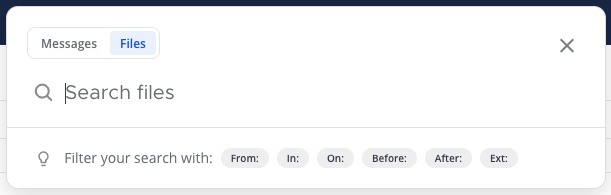
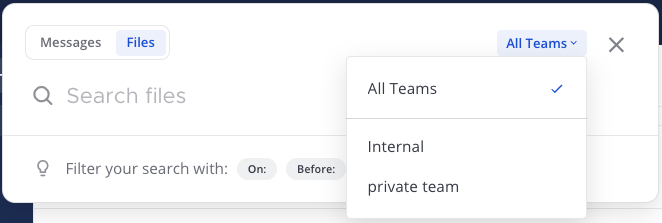
Cross-team search for web, desktop, mobile

diff --git a/source/collaborate/search-for-messages.rst b/source/collaborate/search-for-messages.rst
@@ -4,19 +4,19 @@ Search for messages
 .. include:: ../_static/badges/allplans-cloud-selfhosted.rst
   :start-after: :nosearch:
 
-Use Mattermost search to find messages, replies, and the contents of files shared across all channels you're a member of in your team's conversation history. You can also search by `hashtags <#hashtags>`__ or perform more advanced searches using `search modifiers <#search-modifiers>`__.
+Use Mattermost search to find messages, replies, and the contents of files. You can also search by `hashtags <#hashtags>`__ or perform more advanced searches using `search modifiers <#search-modifiers>`__.
 
 .. include:: ../_static/badges/academy-search.rst
   :start-after: :nosearch:
 
-Search for message and files 
------------------------------
+Search for message
+-------------------
 
 .. tab:: Web/Desktop
 
   **Search for messages**
 
-  1. Select the Search field, select **Messages**, then enter your search criteria. 
+  1. Select the Search field, select **Messages**, enter your search criteria including applicable `hashtags <#hashtags>`__.
 
     .. image:: ../images/search-messages.png
       :alt: Use the Search field to search for messages.
@@ -24,78 +24,100 @@ Search for message and files
     .. image:: ../images/search-messages-expanded.png
       :alt: Use the expanded Search field to search for messages.
 
-  2. When message results display in the Search Results pane, select **Jump** to view a full message in context.
+  2. By default, your search results include messages from all channels within your current team. From Mattermost v10.8, you can select **All Teams** to search all channels across all teams, select a specific team instead, or continue searching within the current team.
+
+    .. image:: ../images/search-all-teams.png
+      :alt: Select All Teams to search all channels across all teams.
+
+  3. When message results display in the Search Results pane, select **Jump** to view a full message in context. 
 
     .. image:: ../images/jump-to-message.png
       :alt: From search results, you can go to the full message by selecting Jump.
 
-  **Search for files**
-
-  File content search is available in Mattermost Server and in Mattermost Cloud. Select the **Search** field, select **Files**, then type your search criteria. 
-
-    .. image:: ../images/search-files.png
-      :alt: Use the Search field to serach for files attached to messages.
-
-  File contents that match on file name, or contain matching text content within supported document types, are returned in the Search Results pane. Each search result includes file name, extension, and size details, as well as details about when and where the file was originally shared.
-
-  - For Mattermost Cloud :doc:`workspaces </guides/use-mattermost>`, supported document file formats include PDF, PPTX, DOCX, ODT, HTML, and plain text documents. DOC and RTF file formats, as well as the contents of ZIP files, are not supported.
-  - For Mattermost self-hosted deployments, supported document file formats include PDF, PPTX, DOCX, ODT, HTML, and plain text documents. 
-
-  .. note::
-    
-    System admins can extend file content search support for self-hosted deployments to include:
-
-    - :ref:`files shared before upgrading to Mattermost Server v5.35 <manage/mmctl-command-line-tool:mmctl extract>`.
-    - :ref:`DOC and RTF file formats <configure/environment-configuration-settings:enable document search by content>`.
-    - :ref:`documents within ZIP files <configure/environment-configuration-settings:enable searching content of documents within zip files>`.
-
-  **Filter results by file type**
-  
-  To narrow search results further, in the Search Results pane, select the **File Type Filter** option, then select specific file types, such as documents, spreadsheets, or images.
-
-  .. image:: ../images/file-search-filter.png
-    :alt: You can filter search results by file type.
-
   .. tip::
-    Select the **Channel Files** icon to the right of the channel name to access files recently shared in the current channel. 
 
-    .. image:: ../images/channel-files-icon.png
-      :alt: Use the Channel Files option to access recently shared files in the current channel.
+    From Mattermost v10.8, you can adjust the search results to show messages from the current team, a specific team, or all teams.
 
 .. tab:: Mobile
 
   1. Tap the **Search** |search-icon| icon at the bottom of the app to search for messages or files attached to messages.
 
-  .. image:: ../images/mobile-search-for-messages.jpg
-      :alt: Tap on the Search icon to search for messages or files attached to messages.
-      :scale: 30
+    .. image:: ../images/mobile-search-for-messages.jpg
+        :alt: Tap on the Search icon to search for messages.
+        :scale: 30
 
-  2. To the right of search options, tap to select which team to search.
+  2. By default, your search results include messages from all channels within your current team. From mobile v2.28, tap **All Teams** to search all channels across all teams, or select a specific team instead.
 
-  .. image:: ../images/mobile-search-message-team-selection.jpg
-      :alt: Tap on the Team selector to select the team you want to search in.
-      :scale: 30
+    .. image:: ../images/mobile-search-message-team-selection.jpg
+        :alt: Tap on the Team selector to select the team you want to search in.
+        :scale: 30
 
   3. Enter your search criteria, including applicable `hashtags <#hashtags>`__.
 
-  .. image:: ../images/mobile-search-message-criteria-with-hashtags.jpg
-      :alt: Type your search criteria along with applicable hashtags.
-      :scale: 30
+    .. image:: ../images/mobile-search-message-criteria-with-hashtags.jpg
+        :alt: Type your search criteria along with applicable hashtags.
+        :scale: 30
 
   4. Tap to apply `search modifiers <#search-modifiers>`__ to your search.
 
-  .. image:: ../images/mobile-search-message-with-modifiers.jpg
-      :alt: Apply search modifiers to further refine your search.
-      :scale: 30
+    .. image:: ../images/mobile-search-message-with-modifiers.jpg
+        :alt: Apply search modifiers to further refine your search.
+        :scale: 30
   
-  .. image:: ../images/mobile-search-message-results.jpg
-      :alt: Check the search results to find your required message or file from the list.
-      :scale: 30
+    .. image:: ../images/mobile-search-message-results.jpg
+        :alt: Check the search results to find your required message or file from the list.
+        :scale: 30
 
-To access files recently shared in a channel:
+  .. tip::
 
-- Select the |channel-files-icon| icon to the right of the channel name to access files recently shared in that channel. 
-- Select the channel name, select the **View Info** |channel-info| icon, then select **Files** in the right pane.
+    You can adjust search results to show messages from the current team, a specific team, or all teams.
+
+Search for files
+----------------
+
+From the **Search** field, select **Files** to search for files attached to messages. From Mattermost v10.8 and mobile v2.28, you can specify whether you want to search all channels you're a member of in the current team, a specific team, or all channels across all teams. 
+
+.. image:: ../images/search-files.png
+  :alt: Use the Search field to serach for files attached to messages.
+
+File contents that match on file name, or contain matching text content within supported document types, are returned in the Search Results pane. Each search result includes file name, extension, and size details, as well as details about when and where the file was originally shared. You can adjust search results to show messages from the current team, a specific team, or all teams.
+
+- For Mattermost Cloud :doc:`workspaces </guides/use-mattermost>`, supported document file formats include PDF, PPTX, DOCX, ODT, HTML, and plain text documents. DOC and RTF file formats, as well as the contents of ZIP files, are not supported.
+- For Mattermost self-hosted deployments, supported document file formats include PDF, PPTX, DOCX, ODT, HTML, and plain text documents. 
+
+.. note::
+
+  System admins can extend file content search support for self-hosted deployments to include:
+
+  - :ref:`files shared before upgrading to Mattermost Server v5.35 <manage/mmctl-command-line-tool:mmctl extract>`.
+  - :ref:`DOC and RTF file formats <configure/environment-configuration-settings:enable document search by content>`.
+  - :ref:`documents within ZIP files <configure/environment-configuration-settings:enable searching content of documents within zip files>`.
+
+Filter results by file type
+~~~~~~~~~~~~~~~~~~~~~~~~~~~~
+
+Using Mattermost in a web browser or the desktop app, you can narrow search results further by selecting the **File Type Filter** option, then selecting specific file types, such as documents, spreadsheets, or images.
+
+.. image:: ../images/file-search-filter.png
+  :alt: You can filter search results by file type.
+
+Access recently shared files
+~~~~~~~~~~~~~~~~~~~~~~~~~~~~~
+
+You can access files recently shared in a channel:
+
+.. tab:: Web/Desktop
+
+  Select the |channel-files-icon| icon to the right of the channel name to access files recently shared in that channel. 
+
+  .. image:: ../images/channel-files-icon.png
+    :alt: Use the Channel Files option to access recently shared files in the current channel.
+
+  Alternatively, you can select the channel name, select the **View Info** |channel-info| icon, then select **Files** in the right pane.
+
+.. tab:: Mobile
+
+  Tap the channel name to view channel options, then tap **Files**.
 
 Search modifiers
 ----------------
@@ -154,7 +176,7 @@ Wildcards
 Use the asterisk ``*`` symbol at the end of the word to perform a wildcard search. The wildcard search returns all words that begin with the specified letters. The wildcard in search cannot be used at the beginning or in the middle of a word. For example, searching ``rea*`` returns messages or files containing words like ``reach``, ``reason``, ``reality``, ``real``, and other words starting with ``rea``. However, searches like ``*each`` and ``re*ch`` are invalid wildcard searches.
 
 Hashtags
---------
+~~~~~~~~~
 
 Hashtags are searchable labels for messages. Anyone can create a hashtag in a message by using the pound sign ``#`` followed by alphanumeric or other unicode characters. Hashtag examples include: ``#bug``, ``#marketing``, ``#user_testing``, ``#per.iod``, ``#check-in``, ``#마케팅``.
 

diff --git a/source/manage/telemetry.rst b/source/manage/telemetry.rst
@@ -97,7 +97,7 @@ Server Configuration Settings
 
   **True/false (boolean)** value whether setting remains default (true) or non-default (false). **NOTE: No input data is used**:
 
-   **ServiceSettings**: bool SiteURL, bool WebsocketURL, bool TLSCertFile, bool TLSKeyFile, bool ReadTimeout, bool WriteTimeout,bool IdleTimeout, bool GoogleDeveloperKey, bool AllowCorsFrom, bool CorsExposedHeaders, bool AllowedUntrustedInternalConnections, bool ManagedResourcePaths, bool CollapsedThreads, bool PostPriority, bool AllowPersistentNotifications, bool PersistentNotificationMaxCount, bool PersistentNotificationIntervalMinutes, bool PersistentNotificationMaxRecipients; **TeamSettings**: bool SiteName, bool CustomBrandText, bool CustomDescriptionText, bool UserStatusAwayTimeout, bool ExperimentalPrimaryTeam; **DisplaySettings**: bool CustomUrlSchemes, bool MaxMarkdownNodes; **GuestAccountSettings**: bool RestrictCreationToDomains, bool EnforceMultifactorAuthentication, bool HideTags; **LogSettings**: bool FileLocation; **NotificationLogSettings**: bool FileLocation; **EmailSettings**: bool FeedbackName, bool FeedbackEmail, bool FeedbackOrganization, bool LoginButtonColor, bool LoginButtonBorderColor, bool LoginButtonTextColor, bool ImageProxyType, bool ImageProxyURL, bool ImageProxyOptions; **RateLimitSettings**: bool VaryByHeader; **SupportSettings**: bool TermsOfServiceLink, bool PrivacyPolicyLink, bool AboutLink, bool HelpLink, bool ReportAProblemLink, bool AppCustomURLSchemes, bool MobileExternalBrowser bool SupportEmail; **ThemeSettings**: bool DefaultTheme; **LdapSettings**: bool FirstNameAttribute, bool LastNameAttribute, bool EmailAttribute, bool UserNameAttribute, bool NicknameAttribute, bool IdAttribute, bool PositionAttribute, bool LoginFieldName, bool LoginButtonColor, bool LoginButtonBorderColor, bool LoginButtonTextColor, bool GroupFilter, bool GroupDisplayNameAttribute, bool GroupIdAttribute, bool GuestFilter, bool AdminFilter; **SamlSettings**: bool SignatureAlgorithm, bool CanonicalAlgorithm, bool ScopingIDPProviderId, bool ScopingIDPName, bool IdAttribute, bool GuestAttribute, bool FirstNameAttribute, bool LastNameAttribute, bool EmailAttribute, bool UserNameAttribute, bool NicknameAttribute, bool LocaleAttribute, bool PositionAttribute, bool LoginIdAttribute, bool LoginButtonText, bool LoginButtonColor, bool LoginButtonBorderColor, bool LoginButtonTextColor, bool AdminFilter; **NativeAppSettings**: bool AppDownloadLink, bool  AndroidAppDownloadLink, bool IosAppDownloadLink; **WebrtcSettings** (only in v5.5 and earlier): bool StunURI, bool TurnURI; **ClusterSettings**: bool NetworkInterface, bool BindAddress, bool AdvertiseAddress; **MetricsSettings**: bool BlockProfileRate; **AnalyticsSettings**: bool MaxUsersForStatistics; **ExperimentalSettings** bool ClientSideCertCheck; **AnnouncementSettings**: bool BannerColor, bool BannerTextColor; **ElasticsearchSettings**: bool ConnectionUrl, bool Username, bool Password, bool IndexPrefix; **PluginSettings**: bool MarketplaceUrl, bool SignaturePublicKeyFiles, bool ChimeraOAuthProxyUrl; **MessageExportSettings**: bool GlobalRelaySettings.SmtpUsername, bool GlobalRelaySettings.SmtpPassword, bool GlobalRelaySettings.EmailAddress; **ConnectedWorkspacesSettings**: bool EnableSharedChannels, bool EnableRemoteClusterService, bool DisableSharedChannelsStatusSync, bool DefaultMaxPostsPerSync.
+   **ServiceSettings**: bool SiteURL, bool WebsocketURL, bool TLSCertFile, bool TLSKeyFile, bool ReadTimeout, bool WriteTimeout,bool IdleTimeout, bool GoogleDeveloperKey, bool AllowCorsFrom, bool CorsExposedHeaders, bool AllowedUntrustedInternalConnections, bool ManagedResourcePaths, bool CollapsedThreads, bool PostPriority, bool AllowPersistentNotifications, bool PersistentNotificationMaxCount, bool PersistentNotificationIntervalMinutes, bool PersistentNotificationMaxRecipients; **TeamSettings**: bool SiteName, bool CustomBrandText, bool CustomDescriptionText, bool UserStatusAwayTimeout, bool ExperimentalPrimaryTeam; **DisplaySettings**: bool CustomUrlSchemes, bool MaxMarkdownNodes; **GuestAccountSettings**: bool RestrictCreationToDomains, bool EnforceMultifactorAuthentication, bool HideTags; **LogSettings**: bool FileLocation; **NotificationLogSettings**: bool FileLocation; **EmailSettings**: bool FeedbackName, bool FeedbackEmail, bool FeedbackOrganization, bool LoginButtonColor, bool LoginButtonBorderColor, bool LoginButtonTextColor, bool ImageProxyType, bool ImageProxyURL, bool ImageProxyOptions; **RateLimitSettings**: bool VaryByHeader; **SupportSettings**: bool TermsOfServiceLink, bool PrivacyPolicyLink, bool AboutLink, bool HelpLink, bool ReportAProblemLink, bool AppCustomURLSchemes, bool MobileExternalBrowser bool SupportEmail; **ThemeSettings**: bool DefaultTheme; **LdapSettings**: bool FirstNameAttribute, bool LastNameAttribute, bool EmailAttribute, bool UserNameAttribute, bool NicknameAttribute, bool IdAttribute, bool PositionAttribute, bool LoginFieldName, bool LoginButtonColor, bool LoginButtonBorderColor, bool LoginButtonTextColor, bool GroupFilter, bool GroupDisplayNameAttribute, bool GroupIdAttribute, bool GuestFilter, bool AdminFilter; **SamlSettings**: bool SignatureAlgorithm, bool CanonicalAlgorithm, bool ScopingIDPProviderId, bool ScopingIDPName, bool IdAttribute, bool GuestAttribute, bool FirstNameAttribute, bool LastNameAttribute, bool EmailAttribute, bool UserNameAttribute, bool NicknameAttribute, bool LocaleAttribute, bool PositionAttribute, bool LoginIdAttribute, bool LoginButtonText, bool LoginButtonColor, bool LoginButtonBorderColor, bool LoginButtonTextColor, bool AdminFilter; **NativeAppSettings**: bool AppDownloadLink, bool  AndroidAppDownloadLink, bool IosAppDownloadLink; **WebrtcSettings** (only in v5.5 and earlier): bool StunURI, bool TurnURI; **ClusterSettings**: bool NetworkInterface, bool BindAddress, bool AdvertiseAddress; **MetricsSettings**: bool BlockProfileRate; **AnalyticsSettings**: bool MaxUsersForStatistics; **ExperimentalSettings** bool ClientSideCertCheck; **AnnouncementSettings**: bool BannerColor, bool BannerTextColor; **ElasticsearchSettings**: bool ConnectionUrl, bool Username, bool Password, bool IndexPrefix; **PluginSettings**: bool MarketplaceUrl, bool SignaturePublicKeyFiles, bool ChimeraOAuthProxyUrl; **MessageExportSettings**: bool GlobalRelaySettings.SmtpUsername, bool GlobalRelaySettings.SmtpPassword, bool GlobalRelaySettings.EmailAddress; **ConnectedWorkspacesSettings**: bool EnableSharedChannels, bool EnableRemoteClusterService, bool DisableSharedChannelsStatusSync, bool DefaultMaxPostsPerSync, bool EnableCrossTeamSearch
 
 Commercial License Information (Enterprise Edition only)
   Information about commercial license key purchased or trial license key used for Enterprise Edition servers: Company ID, license ID, license issue date, license start date, license expiry date, number of licensed users, license name, list of unlocked subscription features.

diff --git a/source/configure/site-configuration-settings.rst b/source/configure/site-configuration-settings.rst
@@ -1896,3 +1896,34 @@ Default maximum posts per sync (Beta)
 |                                                                           | - ``config.json`` setting: ``ConnectedWorkspacesSettings`` > ``DefaultMaxPostsPerSync`` > ``50`` |
 | Default is **50**.                                                        | - Environment variable: N/A                                                                      |
 +---------------------------------------------------------------------------+--------------------------------------------------------------------------------------------------+
+
+----
+
+config.json-only settings
+-------------------------
+
+.. include:: ../_static/badges/allplans-selfhosted.rst
+  :start-after: :nosearch:
+
+.. config:setting:: enable-cross-team-search
+  :displayname: Enable cross-team search
+  :systemconsole: N/A
+  :configjson: ServiceSettings.EnableCrossTeamSearch
+  :environment: SERVICESETTINGS.ENABLECROSSTEAMSEARCH
+  :description: Disable the ability to search all channels the user is a member of across all teams or a specific team, and search all channels the user is a member of within the current team only. Enabled by default.
+
+Cross-team search
+~~~~~~~~~~~~~~~~~
+
++---------------------------------------------------+-----------------------------------------------------------------------------------+
+| Disable the ability to search across all teams    | - System Config path: N/A                                                         |
+| or a specific team.                               | - ``config.json`` setting: ``ServiceSettings.EnableCrossTeamSearch`` > ``true``   |
+|                                                   | - Environment variable: ``MM_SERVICESETTINGS_ENABLECROSSTEAMSEARCH``              |
+| - **true**: **(Default)** Cross-team search is    |                                                                                   |
+|   enabled. Searches can be performed against all  |                                                                                   |
+|   channels the user is a member of across all     |                                                                                   |
+|   teams or a specific team.                       |                                                                                   |
+| - **false**: Cross-team search is disabled.       |                                                                                   |
+|   Searches are performed on all channels the user |                                                                                   |
+|   is member of within the current team only.      |                                                                                   |
++---------------------------------------------------+-----------------------------------------------------------------------------------+
